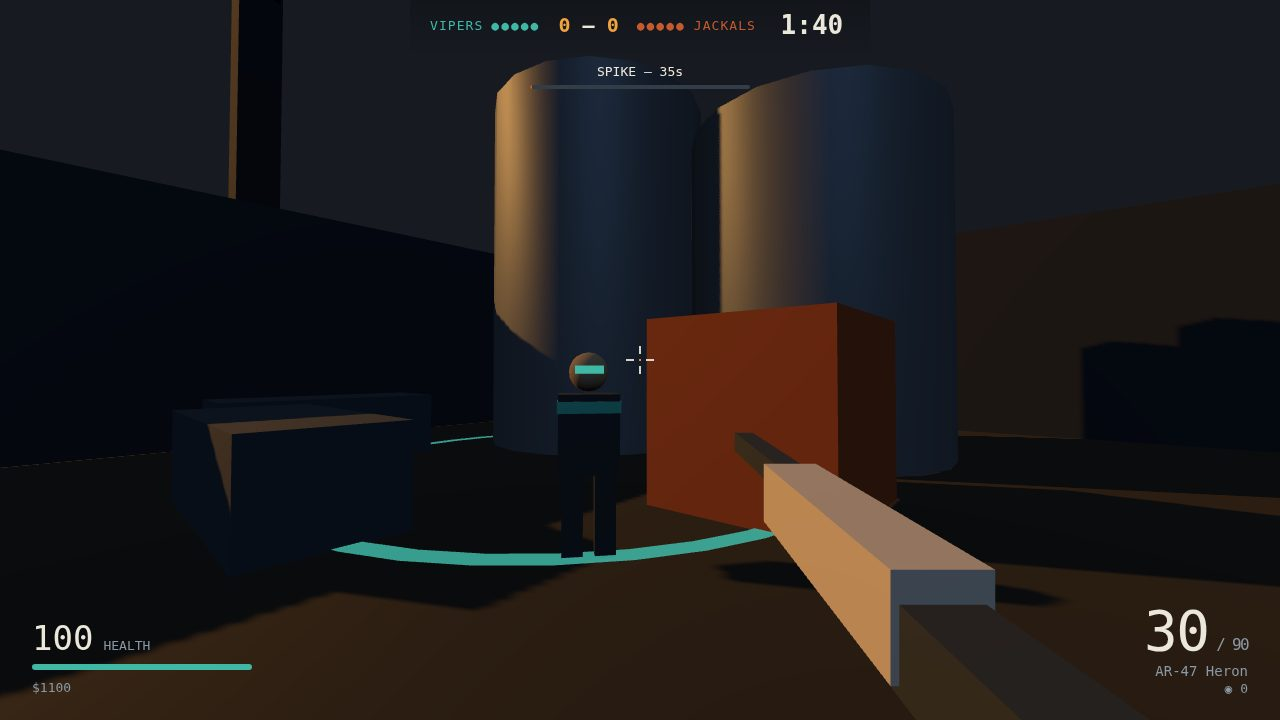
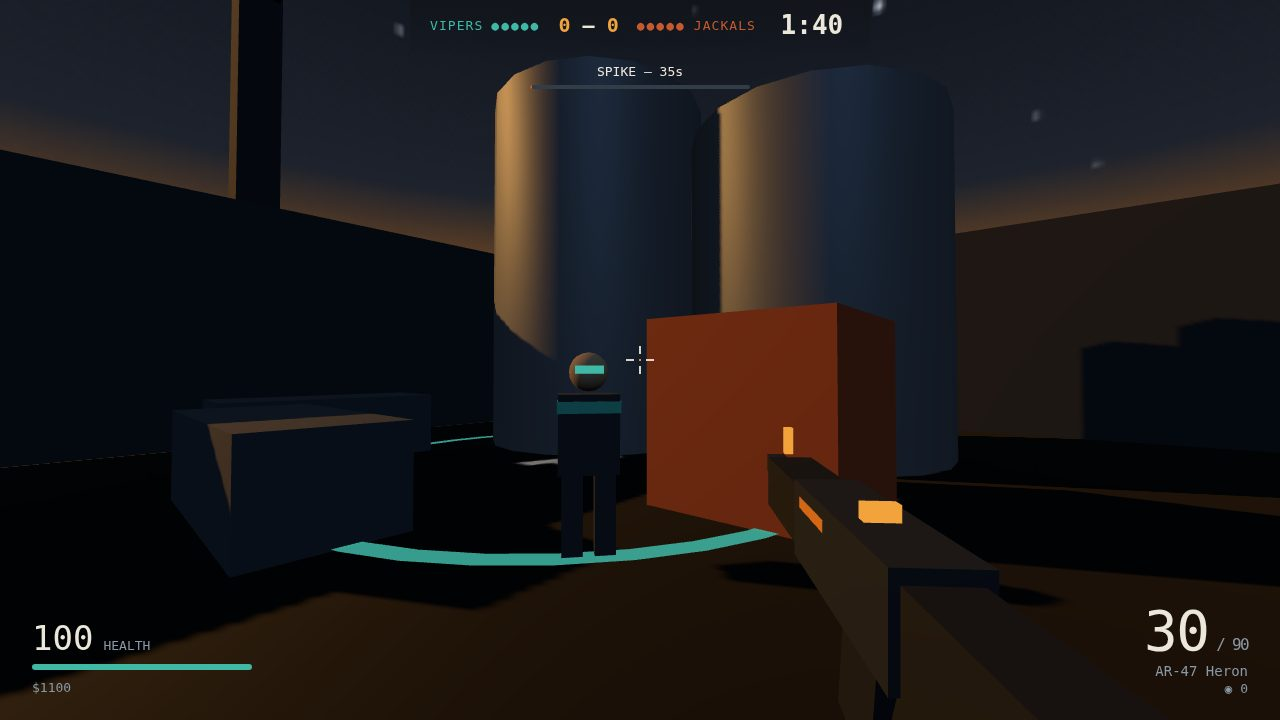
SABLE LINE — visual revision: dusk sky, painted ground, gunmetal view models
- New game/src/sky.js: gradient dusk dome (slate to amber horizon),
  early stars, low western sun sprite; fog-proof backdrop.
- New game/src/ground.js: canvas asphalt (speckle, oil stains,
  expansion joints, cracks) plus a faded painted site letter at A/B.
- world.js: ground texture, sky, site letters; hemisphere 1.35->1.5,
  sun 2.8->3.0 for readability.
- weapons.js: all four view models rebuilt as dark gunmetal rifles
  (receiver, barrel, handguard, stock, magazine, grip, sights) with
  one amber accent; the old bright-cream slab read as a crate.
- Screenshots re-taken from the revised game (all < 256 KiB).

diff --git a/game/src/weapons.js b/game/src/weapons.js
@@ -25,43 +25,65 @@ export const WEAPONS = Object.fromEntries(WEAPON_ROWS.map((row) => {
 
 export const GRENADE = Object.fromEntries([['name', 'M-67 Frag'], ['price', 400], ['damage', 95], ['radius', 6.5], ['fuse', 1.4]]);
 
-// View-model parts per gun: [w, h, d, x, y, z, material] — body, grip or accent.
+// View-model parts per gun: [w, h, d, x, y, z, material, tiltX] — receiver,
+// barrel, handguard, stock, magazine, grip and sights, so each gun reads as
+// the weapon it is instead of a pale slab. Materials are dark gunmetal with
+// one amber accent; the sights are bright so they catch the eye.
 const VIEW_PARTS = {
   pistol: [
-    [0.07, 0.09, 0.24, 0, 0, -0.1, 'body'],
-    [0.06, 0.12, 0.08, 0, -0.09, 0.02, 'grip'],
+    [0.06, 0.07, 0.22, 0, 0.01, -0.08, 'body', 0],
+    [0.055, 0.06, 0.2, 0, -0.03, -0.06, 'grip', 0],
+    [0.05, 0.11, 0.07, 0, -0.1, 0.04, 'grip', 0.25],
+    [0.012, 0.03, 0.012, 0, 0.06, -0.18, 'sight', 0],
+    [0.062, 0.012, 0.08, 0, 0.045, -0.1, 'accent', 0],
   ],
   smg: [
-    [0.08, 0.09, 0.34, 0, 0, -0.12, 'body'],
-    [0.05, 0.16, 0.06, 0, -0.1, -0.02, 'grip'],
-    [0.04, 0.04, 0.2, 0, 0.02, -0.34, 'accent'],
+    [0.08, 0.09, 0.3, 0, 0, -0.1, 'body', 0],
+    [0.03, 0.03, 0.22, 0, 0.01, -0.34, 'body', 0],
+    [0.07, 0.08, 0.2, 0, 0, -0.26, 'grip', 0],
+    [0.06, 0.08, 0.14, 0, -0.01, 0.12, 'grip', 0],
+    [0.04, 0.18, 0.06, 0, -0.12, -0.06, 'mag', 0],
+    [0.012, 0.04, 0.012, 0, 0.06, -0.4, 'sight', 0],
+    [0.082, 0.014, 0.12, 0, 0.02, -0.14, 'accent', 0],
   ],
   dmr: [
-    [0.07, 0.08, 0.62, 0, 0, -0.2, 'body'],
-    [0.05, 0.06, 0.14, 0, 0.07, -0.12, 'accent'],
-    [0.06, 0.1, 0.16, 0, -0.08, 0.08, 'grip'],
+    [0.07, 0.09, 0.34, 0, 0, -0.08, 'body', 0],
+    [0.03, 0.03, 0.42, 0, 0.01, -0.44, 'body', 0],
+    [0.05, 0.05, 0.16, 0, 0.075, -0.1, 'grip', 0],
+    [0.045, 0.045, 0.01, 0, 0.075, -0.19, 'sight', 0],
+    [0.06, 0.09, 0.22, 0, -0.01, 0.16, 'grip', 0],
+    [0.045, 0.12, 0.08, 0, -0.1, -0.02, 'mag', 0.12],
+    [0.072, 0.012, 0.1, 0, 0.03, -0.12, 'accent', 0],
   ],
   rifle: [
-    [0.09, 0.1, 0.42, 0, 0, -0.12, 'body'],
-    [0.045, 0.045, 0.4, 0, 0.025, -0.5, 'grip'],
-    [0.075, 0.08, 0.22, 0, -0.02, 0.18, 'grip'],
+    [0.09, 0.11, 0.3, 0, 0, -0.05, 'body', 0],
+    [0.035, 0.035, 0.34, 0, 0.01, -0.36, 'body', 0],
+    [0.08, 0.09, 0.26, 0, 0, -0.28, 'grip', 0],
+    [0.07, 0.1, 0.2, 0, -0.01, 0.2, 'grip', 0],
+    [0.05, 0.16, 0.09, 0, -0.11, -0.02, 'mag', 0.15],
+    [0.05, 0.12, 0.07, 0, -0.1, 0.1, 'grip', 0.35],
+    [0.015, 0.05, 0.015, 0, 0.075, -0.42, 'sight', 0],
+    [0.04, 0.025, 0.015, 0, 0.062, -0.02, 'sight', 0],
+    [0.092, 0.015, 0.1, 0, 0.03, -0.12, 'accent', 0],
   ],
 };
 
 const buildViewModel = (kind) => {
-  const grip = new THREE.MeshStandardMaterial({ color: new THREE.Color(PALETTE.hairline), roughness: 0.7, metalness: 0.2 });
-  const body = new THREE.MeshStandardMaterial({ color: new THREE.Color(PALETTE.ink), roughness: 0.5, metalness: 0.35 });
+  const body = new THREE.MeshStandardMaterial({ color: 0x3d434c, roughness: 0.45, metalness: 0.6 });
+  const grip = new THREE.MeshStandardMaterial({ color: 0x23272d, roughness: 0.6, metalness: 0.4 });
+  const mag = new THREE.MeshStandardMaterial({ color: 0x2e333a, roughness: 0.5, metalness: 0.55 });
   const accent = new THREE.MeshStandardMaterial({ color: new THREE.Color(PALETTE.accent), roughness: 0.5, metalness: 0.2 });
-  const mats = { body, grip, accent };
+  const sight = new THREE.MeshBasicMaterial({ color: new THREE.Color(PALETTE.accent) });
+  const mats = { body, grip, mag, accent, sight };
   const model = new THREE.Group();
-  const add = (w, h, d, x, y, z, mat) => {
-    const mesh = new THREE.Mesh(new THREE.BoxGeometry(w, h, d), mat);
+  (VIEW_PARTS[kind] || VIEW_PARTS.rifle).forEach(([w, h, d, x, y, z, m, tilt]) => {
+    const mesh = new THREE.Mesh(new THREE.BoxGeometry(w, h, d), mats[m]);
     mesh.position.set(x, y, z);
+    if (tilt) mesh.rotation.x = tilt;
     model.add(mesh);
-    return mesh;
-  };
-  (VIEW_PARTS[kind] || VIEW_PARTS.rifle).forEach(([w, h, d, x, y, z, m]) => add(w, h, d, x, y, z, mats[m]));
+  });
   model.position.set(0.26, -0.23, -0.5);
+  model.rotation.y = -0.06;
   return model;
 };
 

diff --git a/game/src/ground.js b/game/src/ground.js
@@ -1,0 +1,101 @@
+// The yard floor, painted rather than flat: a canvas asphalt texture with
+// speckle, oil stains, expansion joints and hairline cracks, plus a faded
+// painted letter marking each bomb site on the ground itself.
+import * as THREE from 'three';
+
+const TEX_W = 512;
+const TEX_H = 512;
+
+export const createGroundTexture = () => {
+  const canvas = document.createElement('canvas');
+  canvas.width = TEX_W;
+  canvas.height = TEX_H;
+  const ctx = canvas.getContext('2d');
+  ctx.fillStyle = '#2a2620';
+  ctx.fillRect(0, 0, TEX_W, TEX_H);
+  // Speckle: thousands of single-pixel flecks, lighter and darker than base.
+  for (let i = 0; i < 5200; i += 1) {
+    const light = Math.random() < 0.5;
+    ctx.fillStyle = light
+      ? `rgba(74, 66, 54, ${(0.05 + Math.random() * 0.12).toFixed(2)})`
+      : `rgba(20, 17, 12, ${(0.05 + Math.random() * 0.14).toFixed(2)})`;
+    ctx.fillRect(Math.random() * TEX_W, Math.random() * TEX_H, 1 + Math.random() * 1.5, 1 + Math.random() * 1.5);
+  }
+  // Oil stains: soft dark blooms, wider than they are tall.
+  for (let i = 0; i < 14; i += 1) {
+    const x = Math.random() * TEX_W;
+    const y = Math.random() * TEX_H;
+    const r = 26 + Math.random() * 64;
+    const stain = ctx.createRadialGradient(x, y, 0, x, y, r);
+    stain.addColorStop(0, `rgba(12, 11, 9, ${(0.1 + Math.random() * 0.1).toFixed(2)})`);
+    stain.addColorStop(1, 'rgba(12, 11, 9, 0)');
+    ctx.fillStyle = stain;
+    ctx.beginPath();
+    ctx.arc(x, y, r, 0, Math.PI * 2);
+    ctx.fill();
+  }
+  // Expansion joints: a faint grid, one seam every 128 px.
+  ctx.strokeStyle = 'rgba(18, 15, 11, 0.55)';
+  ctx.lineWidth = 2;
+  for (let g = 0; g <= TEX_W; g += 128) {
+    ctx.beginPath();
+    ctx.moveTo(g, 0);
+    ctx.lineTo(g, TEX_H);
+    ctx.stroke();
+    ctx.beginPath();
+    ctx.moveTo(0, g);
+    ctx.lineTo(TEX_W, g);
+    ctx.stroke();
+  }
+  // Hairline cracks: short wandering dark polylines.
+  ctx.strokeStyle = 'rgba(14, 12, 9, 0.4)';
+  ctx.lineWidth = 1;
+  for (let i = 0; i < 9; i += 1) {
+    let x = Math.random() * TEX_W;
+    let y = Math.random() * TEX_H;
+    ctx.beginPath();
+    ctx.moveTo(x, y);
+    for (let s = 0; s < 7; s += 1) {
+      x += (Math.random() - 0.5) * 46;
+      y += (Math.random() - 0.5) * 46;
+      ctx.lineTo(x, y);
+    }
+    ctx.stroke();
+  }
+  const texture = new THREE.CanvasTexture(canvas);
+  texture.wrapS = THREE.RepeatWrapping;
+  texture.wrapT = THREE.RepeatWrapping;
+  texture.repeat.set(6, 4);
+  texture.colorSpace = THREE.SRGBColorSpace;
+  texture.anisotropy = 4;
+  return texture;
+};
+
+// A faded painted letter lying flat on the ground at a bomb site.
+export const createSiteLetter = (letter) => {
+  const canvas = document.createElement('canvas');
+  canvas.width = 256;
+  canvas.height = 256;
+  const ctx = canvas.getContext('2d');
+  ctx.clearRect(0, 0, 256, 256);
+  ctx.font = '700 190px system-ui, sans-serif';
+  ctx.textAlign = 'center';
+  ctx.textBaseline = 'middle';
+  ctx.fillStyle = 'rgba(236, 231, 219, 0.5)';
+  ctx.fillText(letter, 128, 134);
+  // Wear: punch a few transparent speckles out of the paint.
+  ctx.globalCompositeOperation = 'destination-out';
+  for (let i = 0; i < 260; i += 1) {
+    ctx.fillStyle = `rgba(0, 0, 0, ${0.25 + Math.random() * 0.5})`;
+    ctx.fillRect(40 + Math.random() * 176, 50 + Math.random() * 156, 1 + Math.random() * 3, 1 + Math.random() * 3);
+  }
+  ctx.globalCompositeOperation = 'source-over';
+  const texture = new THREE.CanvasTexture(canvas);
+  texture.colorSpace = THREE.SRGBColorSpace;
+  const decal = new THREE.Mesh(
+    new THREE.PlaneGeometry(3, 3),
+    new THREE.MeshBasicMaterial({ map: texture, transparent: true, depthWrite: false }),
+  );
+  decal.rotation.x = -Math.PI / 2;
+  return decal;
+};

diff --git a/game/src/sky.js b/game/src/sky.js
@@ -1,0 +1,72 @@
+// The dusk sky over Kestrel Yard: a gradient dome (deep slate overhead,
+// a warm amber band at the horizon), a scatter of early stars, and one low
+// sun glowing in the west. The dome is a plain backdrop — it never catches
+// fog, so it stays readable from anywhere in the yard.
+import * as THREE from 'three';
+
+const SKY_W = 1024;
+const SKY_H = 512;
+
+const paintSkyCanvas = () => {
+  const canvas = document.createElement('canvas');
+  canvas.width = SKY_W;
+  canvas.height = SKY_H;
+  const ctx = canvas.getContext('2d');
+  const band = ctx.createLinearGradient(0, 0, 0, SKY_H);
+  band.addColorStop(0.0, '#070a10');
+  band.addColorStop(0.3, '#12161f');
+  band.addColorStop(0.4, '#1d222c');
+  band.addColorStop(0.44, '#6b4423');
+  band.addColorStop(0.48, '#a86a2e');
+  band.addColorStop(0.54, '#3a2a1c');
+  band.addColorStop(1.0, '#14100c');
+  ctx.fillStyle = band;
+  ctx.fillRect(0, 0, SKY_W, SKY_H);
+  // Early stars, only above the horizon band, each a single bright speck.
+  for (let i = 0; i < 190; i += 1) {
+    const x = Math.random() * SKY_W;
+    const y = Math.random() * SKY_H * 0.42;
+    const alpha = 0.25 + Math.random() * 0.65;
+    const size = Math.random() < 0.12 ? 2 : 1;
+    ctx.fillStyle = `rgba(230, 238, 255, ${alpha.toFixed(2)})`;
+    ctx.fillRect(x, y, size, size);
+  }
+  return canvas;
+};
+
+const paintSunCanvas = () => {
+  const canvas = document.createElement('canvas');
+  canvas.width = 256;
+  canvas.height = 256;
+  const ctx = canvas.getContext('2d');
+  const glow = ctx.createRadialGradient(128, 128, 0, 128, 128, 128);
+  glow.addColorStop(0, 'rgba(255, 224, 170, 1)');
+  glow.addColorStop(0.22, 'rgba(255, 178, 90, 0.95)');
+  glow.addColorStop(0.48, 'rgba(255, 140, 50, 0.38)');
+  glow.addColorStop(1, 'rgba(255, 120, 40, 0)');
+  ctx.fillStyle = glow;
+  ctx.fillRect(0, 0, 256, 256);
+  return canvas;
+};
+
+export const createSky = (scene) => {
+  const skyTexture = new THREE.CanvasTexture(paintSkyCanvas());
+  skyTexture.mapping = THREE.EquirectangularReflectionMapping;
+  skyTexture.colorSpace = THREE.SRGBColorSpace;
+  const dome = new THREE.Mesh(
+    new THREE.SphereGeometry(140, 32, 20),
+    new THREE.MeshBasicMaterial({ map: skyTexture, side: THREE.BackSide, fog: false, depthWrite: false }),
+  );
+  dome.renderOrder = -10;
+  scene.add(dome);
+  // Low sun in the west, where the directional light already comes from.
+  const sunTexture = new THREE.CanvasTexture(paintSunCanvas());
+  sunTexture.colorSpace = THREE.SRGBColorSpace;
+  const sun = new THREE.Sprite(new THREE.SpriteMaterial({
+    map: sunTexture, transparent: true, fog: false, depthWrite: false,
+  }));
+  sun.scale.set(30, 30, 1);
+  sun.position.set(-105, 16, 38);
+  scene.add(sun);
+  return { dome, sun };
+};

diff --git a/game/src/world.js b/game/src/world.js
@@ -5,6 +5,8 @@
 // navigate, and the spawn points.
 import * as THREE from 'three';
 import { PALETTE } from './palette.js';
+import { createSky } from './sky.js';
+import { createGroundTexture, createSiteLetter } from './ground.js';
 
 const WALL_H = 5.2;
 
@@ -26,6 +28,10 @@ export const createWorld = (scene) => {
   const rustMat = new THREE.MeshStandardMaterial({ color: 0x9a4a28, roughness: 0.85, metalness: 0.25 });
   const tealMat = new THREE.MeshStandardMaterial({ color: 0x2e6f66, roughness: 0.85, metalness: 0.25 });
   const siloMat = new THREE.MeshStandardMaterial({ color: 0x6d7680, roughness: 0.6, metalness: 0.55 });
+  // The yard floor is painted asphalt, not a flat slab: speckle, stains,
+  // joints and cracks give the ground something for the eye to hold.
+  materials.ground.map = createGroundTexture();
+  materials.ground.needsUpdate = true;
 
   const colliders = [];
   const shootables = [];
@@ -112,6 +118,9 @@ export const createWorld = (scene) => {
     else flatRing(p[1], p[2], 4.2, 0x3fb8a6);
   });
 
+  // The sky over the yard: gradient dome, stars, low sun in the west.
+  createSky(scene);
+
   // ---- Distant silhouettes outside the walls, for depth at dusk ----
   const ghost = new THREE.MeshStandardMaterial({ color: 0x1c2129, roughness: 1, metalness: 0 });
   const ghostBox = (w, h, d, x, y, z) => {
@@ -130,9 +139,9 @@ export const createWorld = (scene) => {
 
   // ---- Light: low amber sun from the west, cool fill, dusk sky ----
   scene.fog = new THREE.Fog(new THREE.Color(PALETTE.canvas), 26, 78);
-  const sky = new THREE.HemisphereLight(new THREE.Color(0x8a97a8), new THREE.Color(0x1a1512), 1.35);
+  const sky = new THREE.HemisphereLight(new THREE.Color(0x8a97a8), new THREE.Color(0x1a1512), 1.5);
   scene.add(sky);
-  const sun = new THREE.DirectionalLight(new THREE.Color(0xffb45e), 2.8);
+  const sun = new THREE.DirectionalLight(new THREE.Color(0xffb45e), 3.0);
   sun.position.set(-24, 16, 10);
   sun.target.position.set(4, 0, -4);
   sun.castShadow = true;
@@ -148,6 +157,12 @@ export const createWorld = (scene) => {
   const sites = [['A', 'Silos', -19], ['B', 'Depot', 19]].map(([id, name, x]) => ({
     id, name, center: new THREE.Vector3(x, 0, -9.5), radius: 4.2,
   }));
+  // Each site's letter, painted faded on the ground inside its ring.
+  sites.forEach((site) => {
+    const decal = createSiteLetter(site.id);
+    decal.position.set(site.center.x, 0.04, site.center.z);
+    group.add(decal);
+  });
   const viperSpawns = [[-4, 16], [0, 17], [4, 16], [-8, 14], [8, 14]].map(([x, z]) => new THREE.Vector3(x, 0, z));
   const spawns = {
     vipers: viperSpawns,

diff --git a/README.md b/README.md
@@ -4,7 +4,7 @@
 [![rank](https://make.fun/badge/threejs-fps-02/daring-falcon-58/threejs-fps-02/rank.svg)](https://make.fun/bounty/threejs-fps-02/leaderboard?utm_source=github&utm_medium=readme&utm_campaign=threejs-fps-02)
 [![reward](https://make.fun/badge/threejs-fps-02/daring-falcon-58/threejs-fps-02/reward.svg)](https://make.fun/bounty/threejs-fps-02?utm_source=github&utm_medium=readme&utm_campaign=threejs-fps-02)
 
-SABLE LINE is a round-based tactical first-person shooter in the style Counter-Strike made famous — built on three.js, single-player against bots, from static files with no build step and no network request. You lead four Viper bots against five Jackal bots on Kestrel Yard, a dusk rail yard with two bomb sites: plant the spike at A (Silos) or B (Depot), or eliminate the other team. Money earned each round buys rifles, SMGs, a DMR and frag grenades; gunfire rewards stopping to aim, with recoil, spread bloom, headshots and damage falloff. Bots patrol routes, hold angles, react to what they see and hear, push sites, and defuse the spike.
+SABLE LINE is a round-based tactical first-person shooter in the style Counter-Strike made famous — built on three.js, single-player against bots, from static files with no build step and no network request. You lead four Viper bots against five Jackal bots on Kestrel Yard, a dusk rail yard with two bomb sites: plant the spike at A (Silos) or B (Depot), or eliminate the other team. Money earned each round buys rifles, SMGs, a DMR and frag grenades; gunfire rewards stopping to aim, with recoil, spread bloom, headshots and damage falloff. Bots patrol routes, hold angles, react to what they see and hear, push sites, and defuse the spike. The yard reads at dusk: a gradient sky with stars and a low western sun, painted asphalt with site letters on the ground, and a dark gunmetal view model per weapon with amber sights.
 
 ## Run it
 
